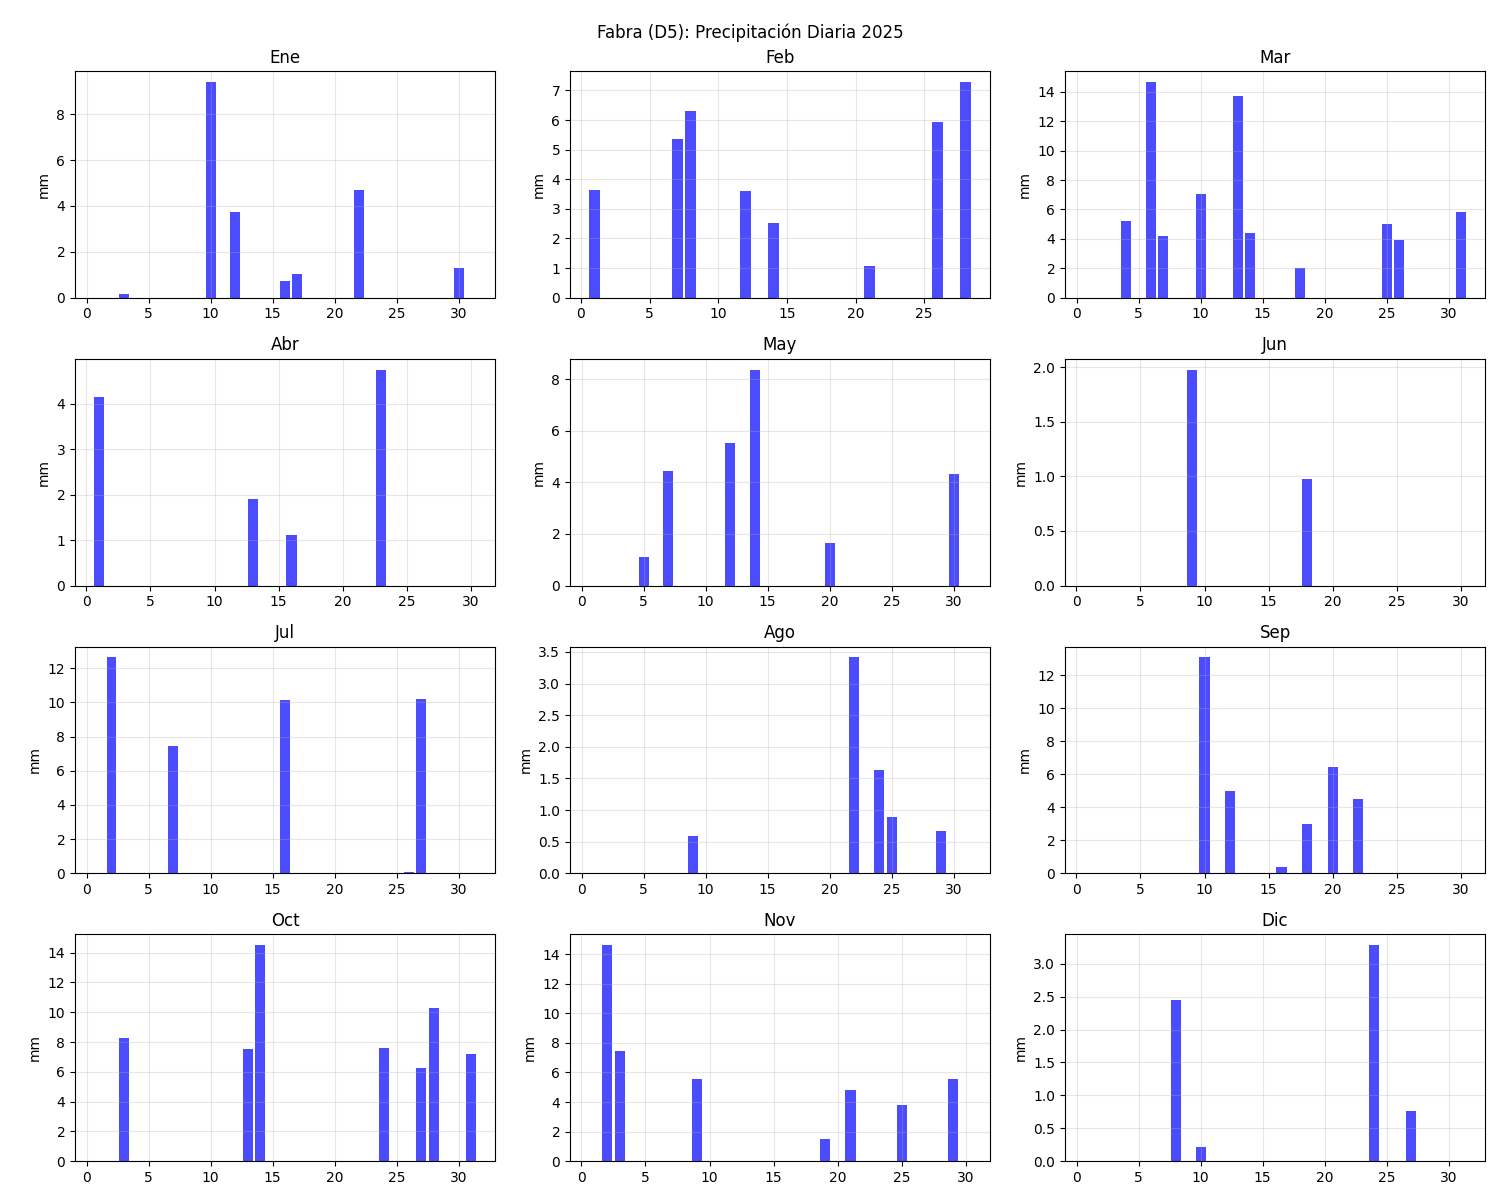
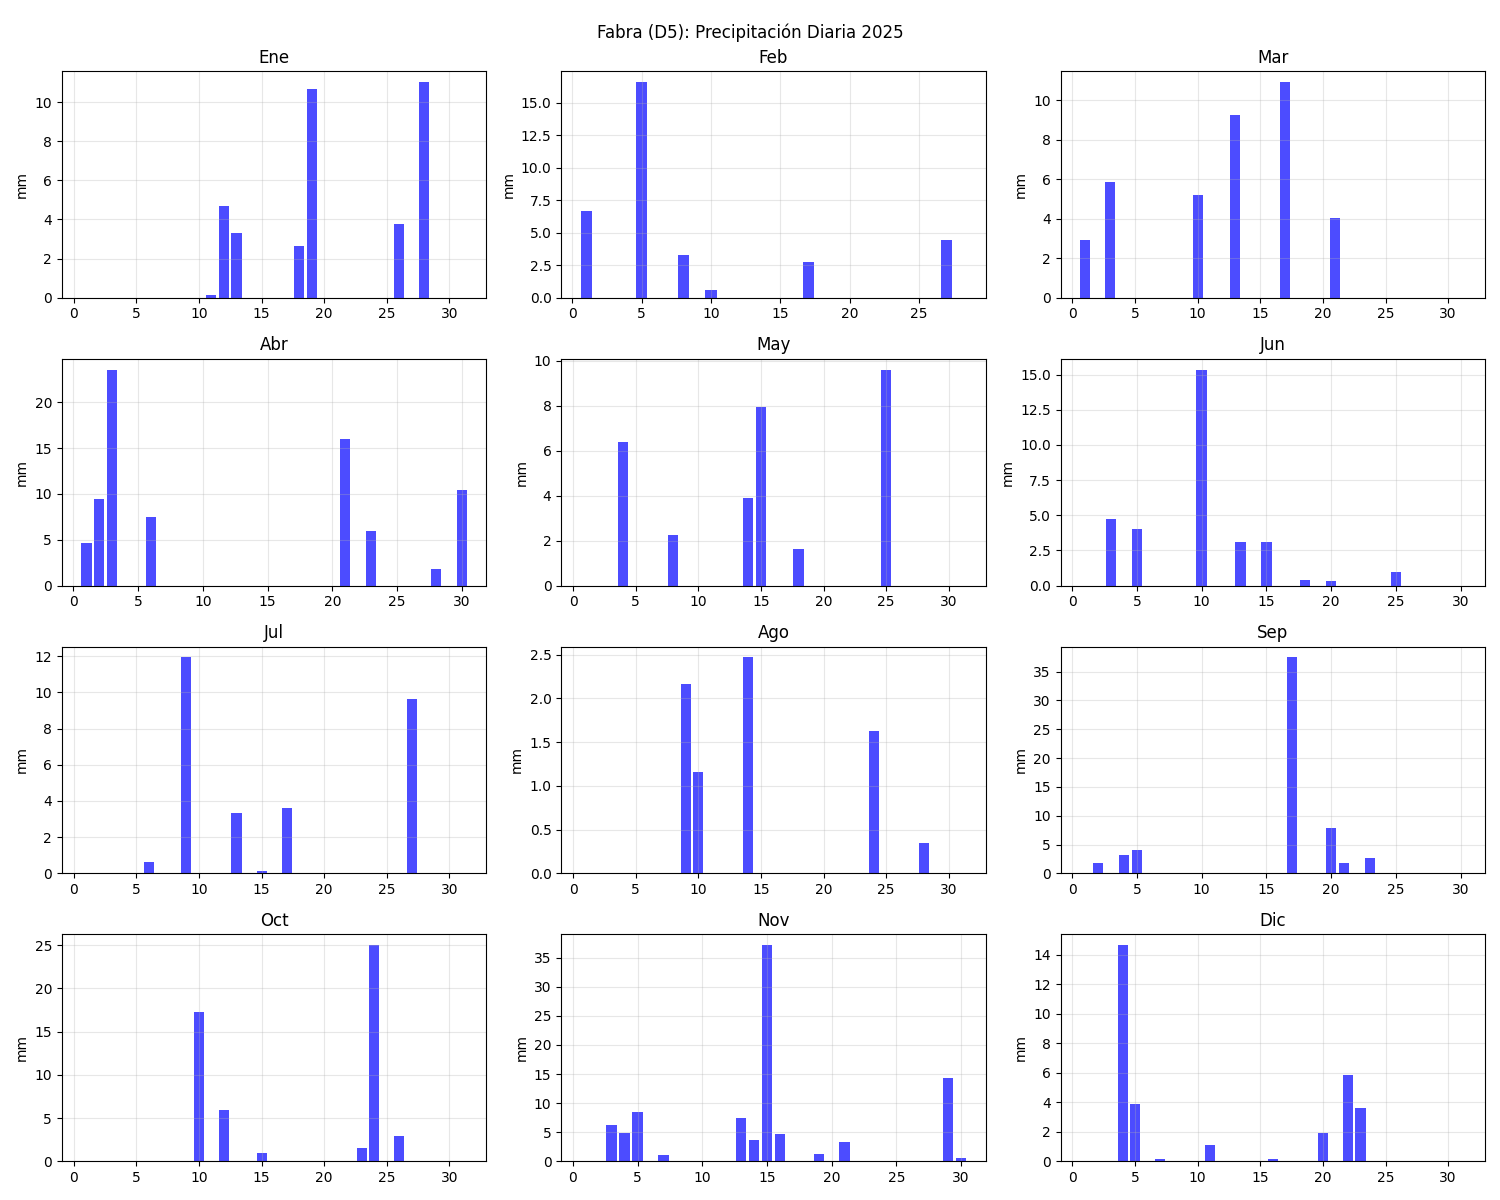
Barras horizontales Fabra y Raval

diff --git a/src/ej3_predic_lluvia.py b/src/ej3_predic_lluvia.py
@@ -137,3 +137,33 @@ for i, ax in enumerate(axes.flat):
 plt.tight_layout()
 plt.savefig(os.path.join(DIRECTORIO_SALIDA, 'ej3_barras_verticales_x4.png'))
 plt.close()
+
+# Barras horizontales
+
+# D5
+fig, axes = plt.subplots(4, 3, figsize=(15, 12))
+fig.suptitle('Fabra (D5): Precipitación Diaria 2025')
+for i, ax in enumerate(axes.flat):
+    mes = i + 1
+    datos_mes = prediccion_2025_d5[prediccion_2025_d5.index.month == mes]
+    ax.barh(datos_mes.index.day, datos_mes.values, color='blue', alpha=0.7)
+    ax.set_title(meses_nombres[mes-1])
+    ax.set_xlabel('mm')
+    ax.grid(True, alpha=0.3)
+plt.tight_layout()
+plt.savefig(os.path.join(DIRECTORIO_SALIDA, 'ej3_barras_horizontales_d5.png'))
+plt.close()
+
+# X4
+fig, axes = plt.subplots(4, 3, figsize=(15, 12))
+fig.suptitle('Raval (X4): Precipitación Diaria 2025')
+for i, ax in enumerate(axes.flat):
+    mes = i + 1
+    datos_mes = prediccion_2025_x4[prediccion_2025_x4.index.month == mes]
+    ax.barh(datos_mes.index.day, datos_mes.values, color='green', alpha=0.7)
+    ax.set_title(meses_nombres[mes-1])
+    ax.set_xlabel('mm')
+    ax.grid(True, alpha=0.3)
+plt.tight_layout()
+plt.savefig(os.path.join(DIRECTORIO_SALIDA, 'ej3_barras_horizontales_x4.png'))
+plt.close()
